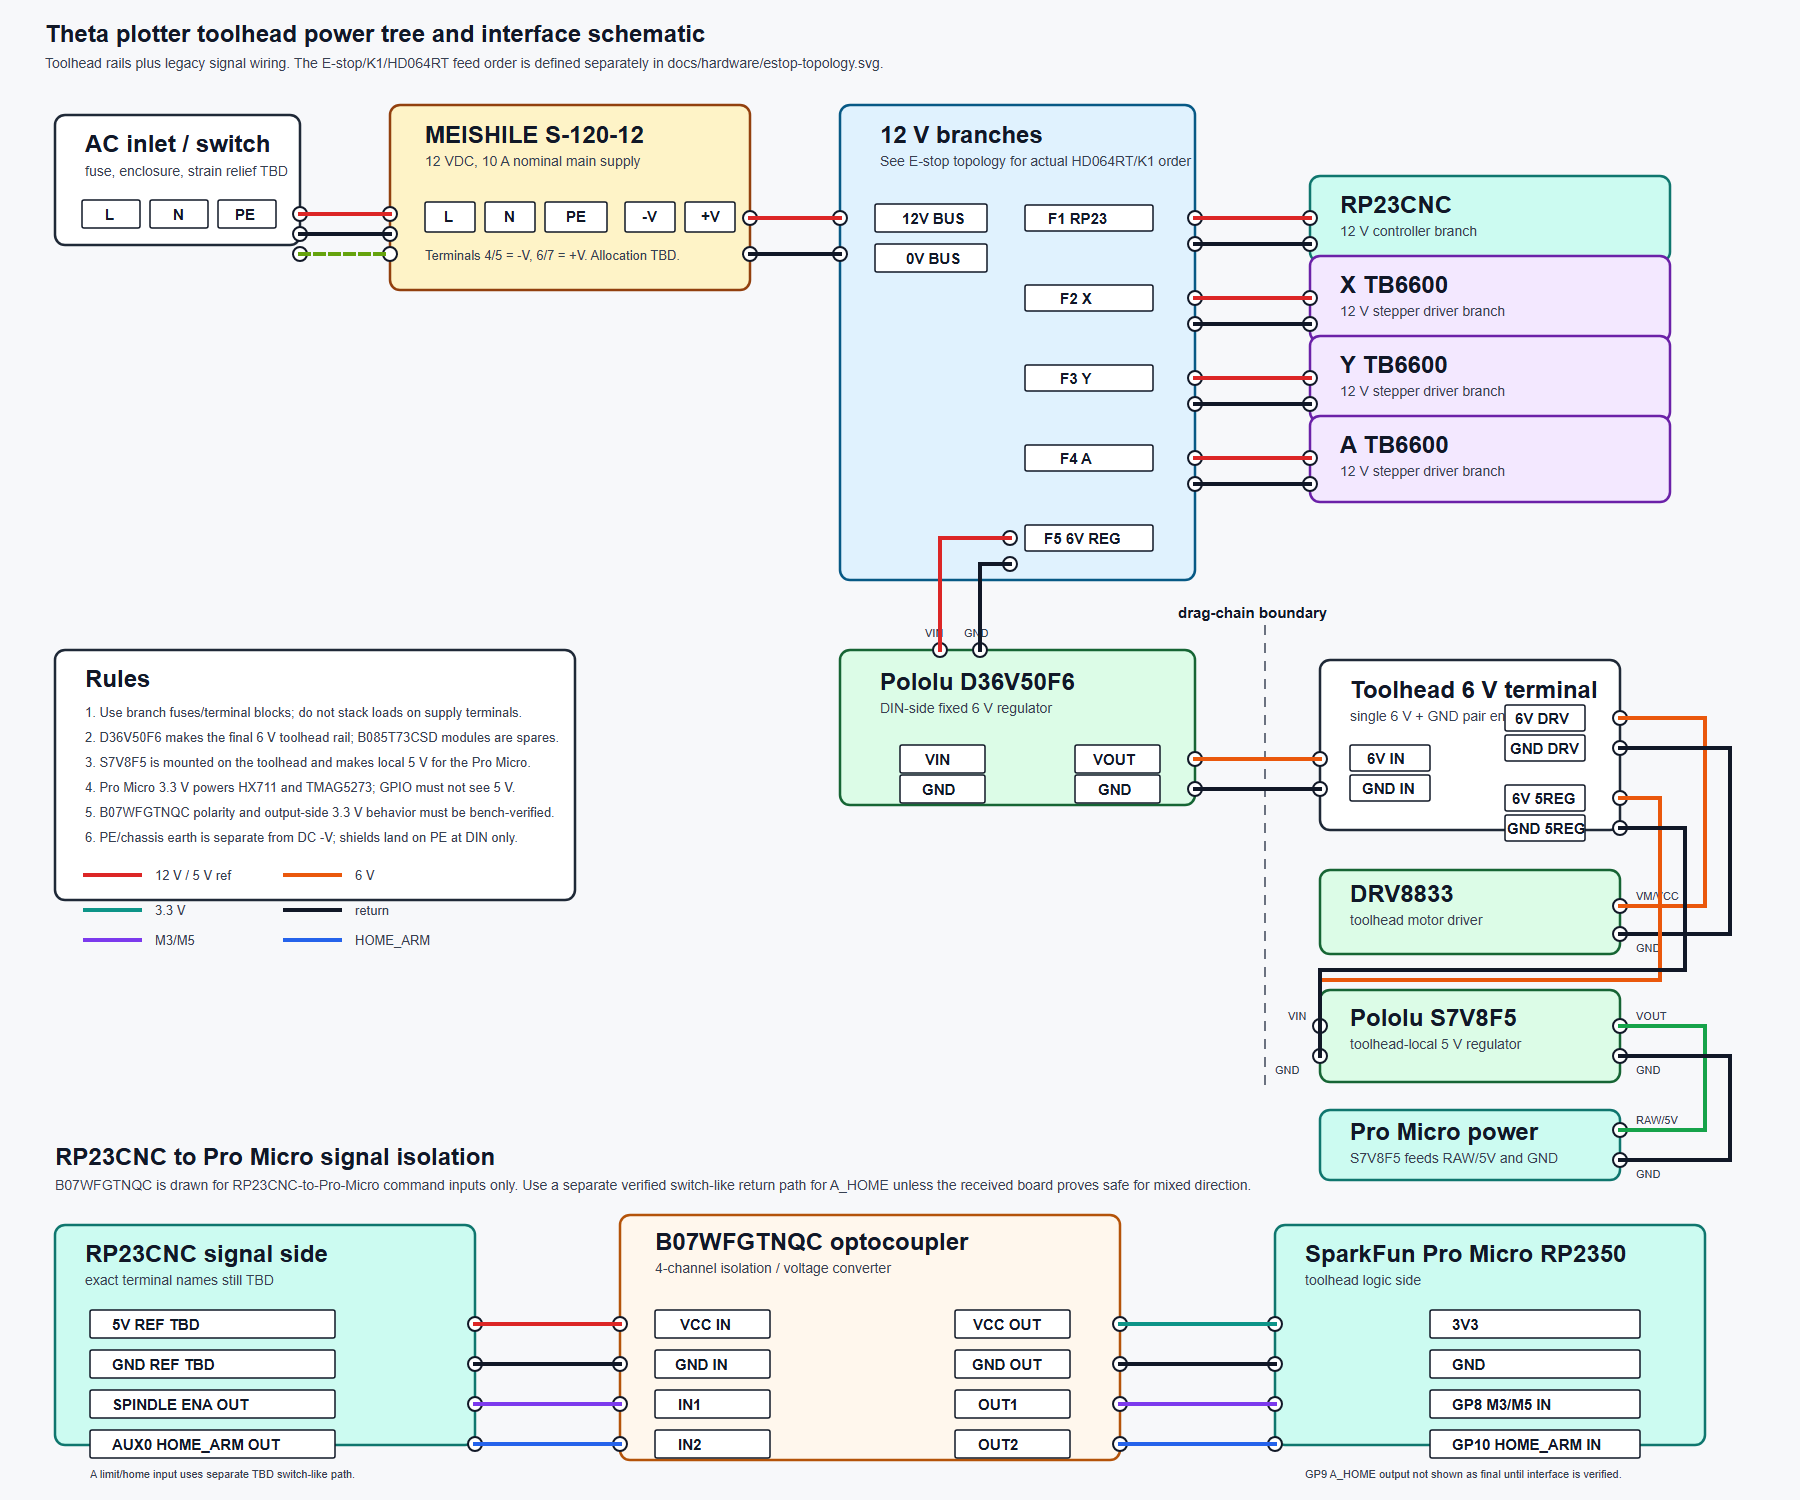
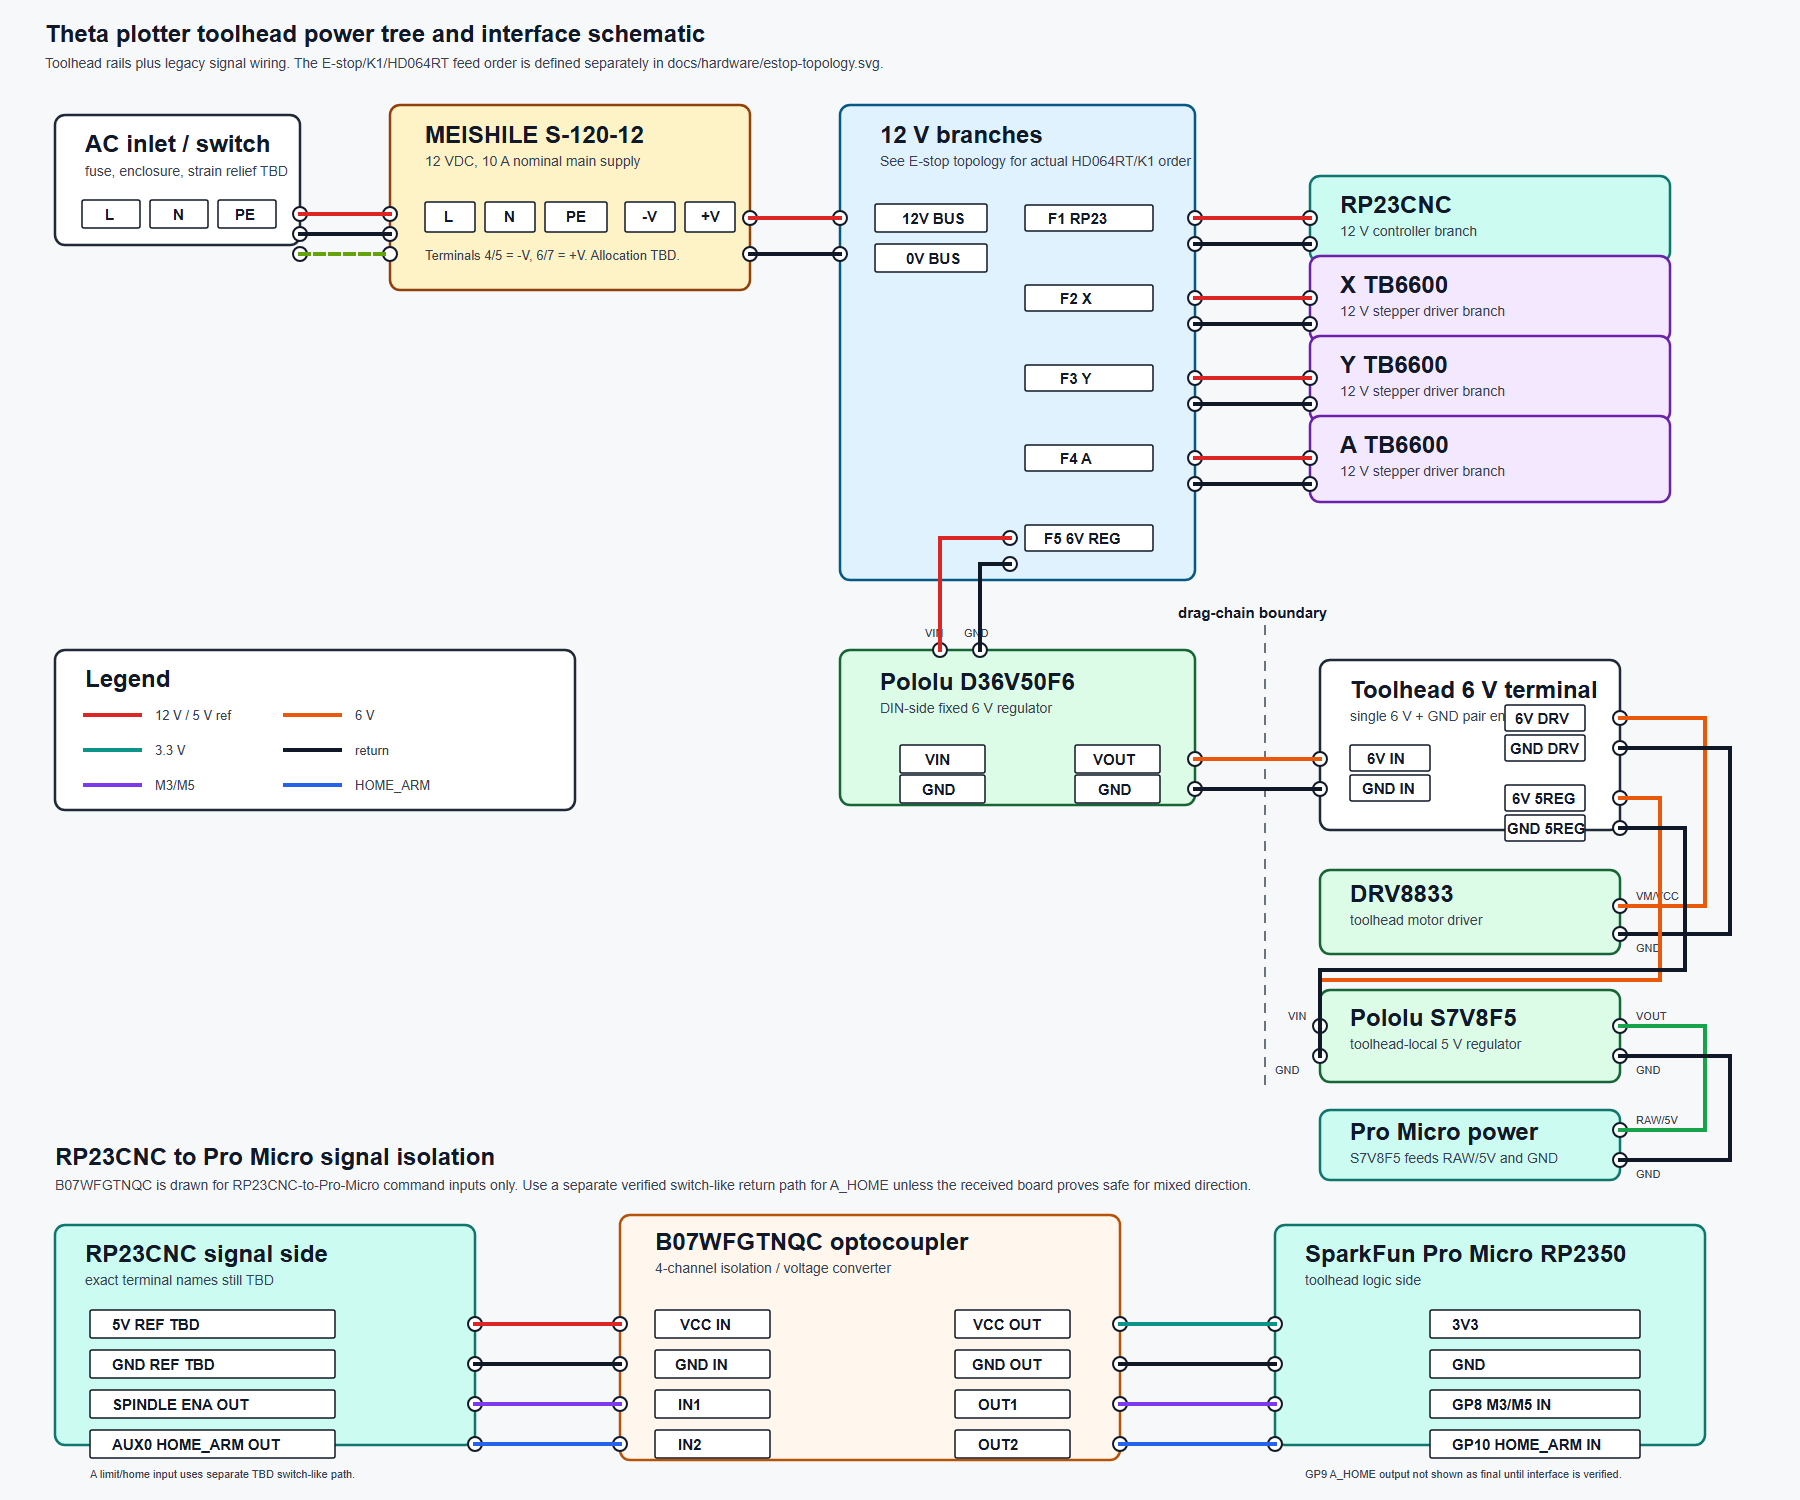
Replace Rules box with a Legend box in power distribution schematic

Changed region(s): [[0.0311, 0.4293, 0.3111, 0.6133]]

diff --git a/docs/project/ENGINEERING_LOG.md b/docs/project/ENGINEERING_LOG.md
@@ -2049,7 +2049,7 @@ Add new entries at the top of the log below this line.
 
 - Status: presentation slide deck updated.
 - Category: documentation, project management
-- Summary: Removed the "Dual-Core Toolhead Subsystem" slide (Slide 5) from `independent_study_presentation.html` since code implementation on the Pro Micro has not yet started. Re-indexed the remaining slides (total count adjusted from 9 to 8) and updated Slide 6 (Troubleshooting & Pivots) to frame the sensor rate PI loop as a design/planned strategy rather than a completed implementation. Also integrated `power-distribution-schematic.png` into Slide 4 (Power Distribution & Hardware Wiring) with a side-by-side split layout, removed the misleading "Bench Verified" header tags, and set granular status symbols (green check marks for verified items, an amber check mark for the partially verified ground loops/EMI spikes item as the TB6600s have not yet been wired to motors, and hollow circles for planned/unverified items). Toned down exaggerated claims by changing "100% Complete" on Slide 3 to "Functional" and removing the "Ready for live demonstration" conclusion sentence from Slide 8. Built a zoomable click-to-expand lightbox modal allowing full-screen viewing of the schematic with Escape key dismissal. Also removed the redundant "Illustrative" word from the 12 V branches box heading in `power-distribution-schematic.svg` and re-rendered `power-distribution-schematic.png`.
+- Summary: Removed the "Dual-Core Toolhead Subsystem" slide (Slide 5) from `independent_study_presentation.html` since code implementation on the Pro Micro has not yet started. Re-indexed the remaining slides (total count adjusted from 9 to 8) and updated Slide 6 (Troubleshooting & Pivots) to frame the sensor rate PI loop as a design/planned strategy rather than a completed implementation. Also integrated `power-distribution-schematic.png` into Slide 4 (Power Distribution & Hardware Wiring) with a side-by-side split layout, removed the misleading "Bench Verified" header tags, and set granular status symbols (green check marks for verified items, an amber check mark for the partially verified ground loops/EMI spikes item as the TB6600s have not yet been wired to motors, and hollow circles for planned/unverified items). Toned down exaggerated claims by changing "100% Complete" on Slide 3 to "Functional" and removing the "Ready for live demonstration" conclusion sentence from Slide 8. Built a zoomable click-to-expand lightbox modal allowing full-screen viewing of the schematic with Escape key dismissal. Also removed the redundant "Illustrative" word from the 12 V branches box heading, replaced the redundant "Rules" box with a clean "Legend" box (shifting color-coded wire identifiers upward), and re-rendered `power-distribution-schematic.png`.
 - Reason: Avoid misrepresenting uncompleted Pro Micro software milestones, ensure academic objectivity, and support interactive visual schematic analysis in the upcoming independent study presentation.
 - Evidence: updated [independent_study_presentation.html](../../independent_study_presentation.html), [power-distribution-schematic.svg](../../power-distribution-schematic.svg), and [power-distribution-schematic.png](../../power-distribution-schematic.png).
 - Next action: run the docs index check tool to regenerate topic links and validate stability.
